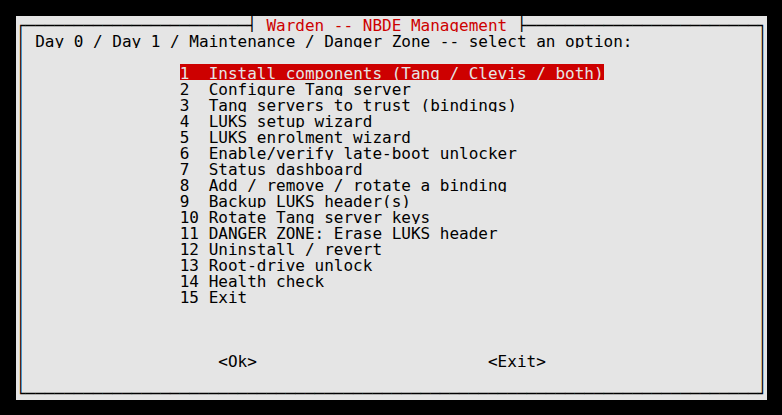
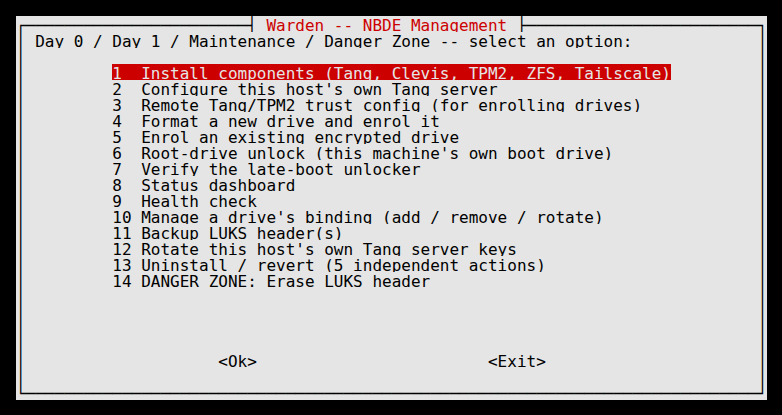
Reorganise the main menu into a more logical order; renumber everything
Reordered to read top-to-bottom the way the tool is actually used:
install, then enrol a drive (root-drive unlock included, grouped with
the other enrolment wizards instead of sitting off on its own),
verify the late-boot unlocker, then ongoing maintenance (status
dashboard and health check now adjacent, rather than 6 slots apart),
then uninstall, with the Danger Zone kept deliberately last -- the
single most irreversible action should require scrolling past
everything else, not appear in the middle of the list.

Also rephrased several labels that were ambiguous or under-specified:
- Menu 1 now names everything it actually installs (Tailscale, TPM2,
  ZFS were previously undocumented at the top level).
- Menus 4/5 now say "new drive" / "existing drive" instead of the
  near-identical "LUKS setup wizard" / "LUKS enrolment wizard".
- Menu 2 and the old menu 10 (now 12) now say "this host's own Tang
  server" to distinguish from menu 3's remote trust configuration --
  previously easy to confuse, all three just said "Tang server(s)".
- Menu 10 (was 8) now says "a drive's binding" to distinguish it from
  menu 13's (was 12) unrelated per-device revert actions.
- Menu 13 (was 12, Uninstall/revert) now hints it's 5 independent
  actions, not one monolithic operation.
- Removed the numbered Exit item entirely -- whiptail's own Cancel
  button already reads "Exit" and does the same thing, so it was a
  duplicate of an already-existing control.
[…]

Changed region(s): [[0.1228, 0.1446, 0.8593, 0.7518]]

diff --git a/docs/future-work.md b/docs/future-work.md
@@ -16,8 +16,8 @@ remains the source of the original constraints it must satisfy.
 
 **Status: complete and fully real-hardware validated, 2026-09-20.**
 All seven actions (Enable, Add, Remove, Rotate, Status, Snapshot,
-Disable) exist in `lib/features/root_unlock.sh`, menu 13 is wired into
-`bin/warden`'s main menu (Exit moved to 14), and every single one of
+Disable) exist in `lib/features/root_unlock.sh`, menu 6 is wired into
+`bin/warden`'s main menu, and every single one of
 them — not just Enable — has now been driven for real against the
 LUKS-root test VM, with real reboots proving the two riskiest claims
 (a TPM2-only bind unlocking automatically, and a Tang-only bind doing
@@ -101,25 +101,26 @@ never the kit's own necessarily-different backup content.
   Tang address resolves to any of this host's own currently-assigned
   addresses (not just literal `127.0.0.1` — a LAN IP that happens to
   be this host's own counts too), not just a fixed loopback check.
-- **New menu 13** (`Root-drive unlock`), Exit moves to 14. Kept fully
+- **A new, self-contained menu** (`Root-drive unlock`, now menu 6 after
+  the 2026-09-21 main-menu reorganisation), kept fully
   self-contained rather than folded into existing menus, matching the
   spec's requirement that this never be accidentally reachable from
   the general wizard — the same reasoning that already keeps the
-  Danger Zone (menu 11) structurally separate from Uninstall (menu 12).
+  Danger Zone (menu 14) structurally separate from Uninstall (menu 13).
 
-### Menu 13's actions: Enable, Add, Remove, Rotate, Status, Snapshot, Disable
+### Menu 6's actions: Enable, Add, Remove, Rotate, Status, Snapshot, Disable
 
 No device picker anywhere in this menu — there's only ever one root
 device, resolved fresh each time, never cached, consistent with the
 rest of the project's "never trust a stale device reference" rule.
 
-Binding management (Add/Remove/Rotate) can't just delegate to menu 8,
+Binding management (Add/Remove/Rotate) can't just delegate to menu 10,
 even though a root LUKS device is mechanically identical to any other
-once it has bindings: menu 8's device list is already built from
+once it has bindings: menu 10's device list is already built from
 `managed_luks_devices`, which excludes root via the same
-`guard_not_system_critical` check menu 5 uses. Reusing menu 8 directly
+`guard_not_system_critical` check menu 5 uses. Reusing menu 10 directly
 would reintroduce exactly the "accidentally reachable from the general
-wizard" risk the spec warns against. So menu 13 needs its own thin
+wizard" risk the spec warns against. So menu 6 needs its own thin
 add/remove/rotate, reusing the underlying `run_clevis_luks_bind` /
 `run_clevis_luks_unbind` / hard non-Clevis-slot-gate primitives
 internally, but as a structurally distinct entry point — the same
@@ -137,7 +138,7 @@ low-level primitives, shares zero code path at the menu level).
   redoing setup.
 - **Add** — bind an additional pin alongside whatever's already there
   (e.g. TPM2 now, LAN-Tang added later). Shows current bindings first,
-  same "state before action" pattern as menu 8. Since the
+  same "state before action" pattern as menu 10. Since the
   `clevis-initramfs` boot script reads bindings live off the LUKS
   header at boot time rather than baking them into the initramfs
   image, **this needs no initramfs regeneration at all** — a
@@ -149,7 +150,7 @@ low-level primitives, shares zero code path at the menu level).
   against real hardware while building Enable — corrected once the
   same constraint was recognised to apply equally to every action
   here, not just Enable.
-- **Remove** / **Rotate** — same shape as menu 8's equivalents, same
+- **Remove** / **Rotate** — same shape as menu 10's equivalents, same
   hard gate that structurally prevents ever touching a non-Clevis
   (passphrase) slot. No initramfs regeneration needed here either, for
   the same reason as Add. Rotate cannot live-verify the new binding
@@ -176,7 +177,7 @@ low-level primitives, shares zero code path at the menu level).
   same as Enable. Existing recovery kits from earlier enables are left
   alone, not auto-deleted (they're the operator's own safety net;
   destroying them as a side effect of an unrelated action would be
-  wrong, matching how menu 12 already treats everything else
+  wrong, matching how menu 13 already treats everything else
   non-destructively).
 
 ### Ordering matters: regenerate the initramfs *before* binding, not after
@@ -437,14 +438,14 @@ no mirror/raidz, no multi-device pickers). Fits into menus 4/5 as a
 filesystem-type choice alongside ext4/etc., not a separate menu.
 
 **Status: all six planned pieces are done** — menu 1 (install), menu 4
-(new device), menu 5 (enrol an existing device), menu 7 (status
-dashboard), menu 11 (Danger Zone erase completion message), and menu
-12 (uninstall "forget" action). Every piece has been validated
+(new device), menu 5 (enrol an existing device), menu 8 (status
+dashboard), menu 14 (Danger Zone erase completion message), and menu
+13 (uninstall "forget" action). Every piece has been validated
 end-to-end through the real TUI on real hardware: menu 1/4/5 with full
 reboots proving auto-unlock → auto-import → auto-mount with no manual
 intervention (menu 5's case additionally proved a pool created under
 one mapper name gets correctly re-discovered and re-enrolled under its
-own real name after being "forgotten"/moved), and menu 11/12 via real
+own real name after being "forgotten"/moved), and menu 14/13 via real
 create-then-forget-then-re-import testing. This feature is complete
 for the single-disk-pool scope decided above; multi-disk pools
 (mirror/raidz) remain a distinct, larger, not-yet-scoped feature if
@@ -578,18 +579,18 @@ mapping first, run the normal throwaway-name test-unlock, then reopen
 the real mapper and re-import the pool so the operator's session ends
 in the same state it would have without the test running at all.
 
-### Done: menus 11 and 12
+### Done: menus 14 and 13
 
-- Menu 12 (uninstall/revert)'s "forget" action now checks for an
+- Menu 13 (uninstall/revert)'s "forget" action now checks for an
   enabled `warden-zfs-import@<mapper>.service`, and if present:
   exports the zpool (only if currently imported) and disables the
   unit. Never touches the pool's data (export, not destroy) or the
   LUKS layer at all -- matches this action's existing scope exactly.
-- Menu 11 (Danger Zone erase)'s "still has a crypttab entry" boot-hang
+- Menu 14 (Danger Zone erase)'s "still has a crypttab entry" boot-hang
   warning now also checks for and mentions an enabled
   `warden-zfs-import@` unit for the erased device, pointing at the
-  same menu 12 action above. Plain text, not a function call -- menu
-  11 and menu 12 still share zero code path (verified via grep, same
+  same menu 13 action above. Plain text, not a function call -- menu
+  14 and menu 13 still share zero code path (verified via grep, same
   as before).
 
 Confirmed live on the test VM: created a real ZFS-backed device
@@ -600,7 +601,7 @@ reboot isn't the right test for this action specifically, since its
 whole purpose is to make the device stop doing anything automatic at
 boot; the create → forget → re-import cycle is the real proof.
 
-### Done: menu 7
+### Done: menu 8
 
 `render_status_report` now checks each managed device for an enabled
 `warden-zfs-import@<mapper>.service` before falling back to the usual
@@ -649,14 +650,14 @@ decided above.
 Raised 2026-09-20. **Status: done**, same day — small enough that it
 didn't warrant sitting on the backlog. Checking whether everything
 Warden has configured was actually still healthy used to mean
-visiting several menus by hand: menu 7 for binding/mount state, menu
-13's Status for root-unlock drift, with no single place re-verifying
-Tang reachability for every *configured* binding at once (menu 7 only
+visiting several menus by hand: menu 8 for binding/mount state, menu
+6's Status for root-unlock drift, with no single place re-verifying
+Tang reachability for every *configured* binding at once (menu 8 only
 ever showed reachability for servers a currently-bound device already
 referenced) or confirming a TPM2 chip was still present with the right
 packages installed.
 
-Implemented as `lib/features/health_check.sh` (menu 14, plus
+Implemented as `lib/features/health_check.sh` (menu 9, plus
 `warden check` non-interactively): walks every managed device and
 configured binding and reports PASS/FAIL/WARN for Tang reachability,
 TPM2 hardware/package presence (only checked if some binding actually
@@ -664,7 +665,7 @@ uses a tpm2 pin), ZFS import units, the late-boot unlocker path, and
 root-unlock drift (a WARN, not a FAIL — drift alone never invalidates
 a binding). One render function backs both front ends, so there's only
 one implementation to keep correct. Deliberately composition, not new
-logic — every individual check reuses a primitive menu 7 or menu 13
+logic — every individual check reuses a primitive menu 8 or menu 6
 already had and already tested. No separate quiet mode was added: the
 exit code (0 clean, 1 needs attention) is the actionable signal for a
 cron job or monitoring check; the full text is there for when you need
@@ -673,7 +674,7 @@ to see why.
 ## Off-host sync for root-unlock recovery kits
 
 Raised 2026-09-20, not yet scoped. Root-unlock's recovery kits
-(`docs/usage/13-root-unlock.md`) currently live only on the same
+(`docs/usage/06-root-unlock.md`) currently live only on the same
 machine they protect — the guide + script on `/boot`, the initramfs
 backup under `/root`. That's sufficient for the failure modes the
 design targets (a bad Clevis binding, an initramfs regeneration gone
@@ -711,3 +712,26 @@ would need its own equally-deliberate equivalent (an explicit
 config-level acknowledgement, most likely) rather than silently
 skipping that friction. Worth a proper design conversation before
 starting, not a small patch.
+
+## Test against the current latest Ubuntu LTS
+
+Raised 2026-09-21. Every real-hardware claim in this project — every
+"confirmed on real hardware" comment, every real reboot test, all of
+`docs/future-work.md` and the wiki's Lessons Learned — was validated
+against Ubuntu Server 24.04 LTS specifically, never anything newer.
+The README's prerequisites section says so explicitly rather than
+claiming untested forward-compatibility ("24.04 LTS (other versions
+not yet tested)"), on the same "check, don't assume" principle behind
+everything else in this project: package names, systemd unit specifics,
+default LUKS2/cryptsetup behaviour, and netplan/systemd-networkd
+defaults have all had at least one real surprise already during this
+project's own development, and a newer LTS is exactly the kind of
+thing likely to have its own.
+
+Not yet started. Whenever picked up: build a disposable test VM on the
+current latest Ubuntu LTS release, and re-run at least the highest-risk
+real-hardware validations already done against 24.04 — a full install
+→ enrol → reboot cycle for a secondary drive, and root-drive unlock's
+Enable with a real reboot (the single riskiest claim in the whole
+project, per its own design doc). If it passes, widen the README's
+prerequisites line with real evidence behind it, not just optimism.

diff --git a/docs/usage/13-uninstall.md b/docs/usage/13-uninstall.md
@@ -1,9 +1,9 @@
-# Menu 12 — Uninstall / revert
+# Menu 13 — Uninstall / revert (5 independent actions)
 
 Granular, not all-or-nothing — each action below is independent and
 picking one doesn't touch the others. **Never** touches actual
 LUKS-encrypted data; that's exclusively the Danger Zone's job (menu
-11), and the two menus share no code path at all — see the comment at
+14), and the two menus share no code path at all — see the comment at
 the top of `lib/features/uninstall.sh`.
 
 - **Disable the late-boot unlocker only** — shows current status,
@@ -14,14 +14,14 @@ the top of `lib/features/uninstall.sh`.
   requires confirming you have that device's recovery passphrase in
   hand before removing every Clevis binding on it (this is the point
   of no return for automatic unlocking on that specific device). Uses
-  the same hard non-Clevis-slot gate as menu 8, so it's just as
+  the same hard non-Clevis-slot gate as menu 10, so it's just as
   incapable of touching a bare passphrase or keyfile slot.
 - **Remove crypttab/fstab entries for a device** — shows the device's
   mapper, UUID, and current Clevis bindings, then removes its
   `/etc/crypttab` (and `/etc/fstab`, if present) entries only. Doesn't
   touch the LUKS header, keyslots, or any Clevis binding. This is the
   action to use once a device is done being managed by Warden — most
-  importantly right after a Danger Zone erase (menu 11): with every
+  importantly right after a Danger Zone erase (menu 14): with every
   keyslot destroyed, that device can never unlock again, and its
   crypttab entry has no `nofail` option, so leaving it in place risks
   hanging the next boot waiting on it. "Unbind Clevis from a device"

diff --git a/docs/usage/06-root-unlock.md b/docs/usage/06-root-unlock.md
@@ -1,9 +1,9 @@
-# Menu 13 — Root-drive unlock (`clevis-initramfs`)
+# Menu 6 — Root-drive unlock (`clevis-initramfs`)
 
 Automatic unlock of the machine's *own* root filesystem at boot — TPM2
 and/or a LAN-only Tang server — instead of only ever prompting for a
-passphrase interactively. Structurally separate from menu 8, even
-though the underlying primitives are shared: menu 8's device list
+passphrase interactively. Structurally separate from menu 10, even
+though the underlying primitives are shared: menu 10's device list
 (`managed_luks_devices`) deliberately excludes root, so root can never
 be reached from the general enrolment/binding menus by accident. There
 is no device picker here — there's only ever one root device, resolved
@@ -52,7 +52,7 @@ need one.
   bindings live off the LUKS header at boot time, not from a baked-in
   image.
 - **Remove** — pick a bound slot from the displayed list and unbind
-  it. Same hard non-Clevis-slot gate as menu 8: a slot without a
+  it. Same hard non-Clevis-slot gate as menu 10: a slot without a
   Clevis token attached (i.e. the passphrase slot) can never be
   touched through this path. Warns explicitly if it's the only
   remaining Clevis binding.
@@ -84,7 +84,7 @@ need one.
 
 ## Unlike every other binding path in Warden: no live test-unlock
 
-Every other enrolment wizard in Warden (menus 4/5/8) proves a new
+Every other enrolment wizard in Warden (menus 4/5/10) proves a new
 binding works by actually test-unlocking it before declaring success.
 Root's own device can never do this: whenever Warden is running, it is
 running *from* the very filesystem it would need to test-unlock, so

diff --git a/README.md b/README.md
@@ -78,7 +78,13 @@ page for what that testing actually found and fixed along the way.
   <img src="docs/images/main-menu.png" alt="Warden's main menu" width="640">
 </p>
 <p align="center">
+  <img src="docs/images/install-menu.png" alt="Warden's install-components picker" width="640">
+</p>
+<p align="center">
   <img src="docs/images/root-unlock-menu.png" alt="Warden's root-drive unlock menu" width="640">
+</p>
+<p align="center">
+  <img src="docs/images/health-check.png" alt="Warden's health check report, showing a mix of PASS and WARN results" width="640">
 </p>
 <!-- markdownlint-enable MD033 -->
 
@@ -91,7 +97,7 @@ itself as a native systemd service, that *is* in scope.
 
 ## Prerequisites
 
-- Ubuntu Server 24.04 LTS
+- Ubuntu Server 24.04 LTS (other versions not yet tested)
 - `whiptail` (present by default on Ubuntu Server)
 - Root privileges to run `bin/warden` (see Safety model)
 
@@ -163,7 +169,7 @@ because of real incidents, not hypothetical caution:
   missed on install, silently breaking late-boot unlock — every
   required package is checked explicitly and individually, never
   assumed to ride in with a related one.
-- **Root-drive unlock can never be reached by accident.** Menu 13 is
+- **Root-drive unlock can never be reached by accident.** Menu 6 is
   structurally separate from the general enrolment/binding menus —
   the same isolation the Danger Zone already has from Uninstall — and
   always keeps the original LUKS passphrase working, with a

diff --git a/docs/usage/README.md b/docs/usage/README.md
@@ -8,12 +8,12 @@ top-level README for the current phase status.
 - [03-tang-bindings.md](03-tang-bindings.md) — menu 3
 - [04-luks-setup.md](04-luks-setup.md) — menu 4
 - [05-luks-enrolment.md](05-luks-enrolment.md) — menu 5
-- [06-late-boot-unlocker.md](06-late-boot-unlocker.md) — menu 6
-- [07-status-dashboard.md](07-status-dashboard.md) — menu 7
-- [08-binding-rotate.md](08-binding-rotate.md) — menu 8
-- [09-header-backup.md](09-header-backup.md) — menu 9
-- [10-tang-key-rotation.md](10-tang-key-rotation.md) — menu 10
-- [11-danger-zone-erase.md](11-danger-zone-erase.md) — menu 11
-- [12-uninstall.md](12-uninstall.md) — menu 12
-- [13-root-unlock.md](13-root-unlock.md) — menu 13
-- [14-health-check.md](14-health-check.md) — menu 14
+- [06-root-unlock.md](06-root-unlock.md) — menu 6
+- [07-late-boot-unlocker.md](07-late-boot-unlocker.md) — menu 7
+- [08-status-dashboard.md](08-status-dashboard.md) — menu 8
+- [09-health-check.md](09-health-check.md) — menu 9
+- [10-binding-rotate.md](10-binding-rotate.md) — menu 10
+- [11-header-backup.md](11-header-backup.md) — menu 11
+- [12-tang-key-rotation.md](12-tang-key-rotation.md) — menu 12
+- [13-uninstall.md](13-uninstall.md) — menu 13
+- [14-danger-zone-erase.md](14-danger-zone-erase.md) — menu 14

diff --git a/docs/usage/09-health-check.md b/docs/usage/09-health-check.md
@@ -1,9 +1,9 @@
-# Menu 14 — Health check
+# Menu 9 — Health check
 
 A single pass/fail pass across everything else in this tool already
 configured, so checking whether it's all still healthy doesn't mean
 visiting several other menus by hand. Read-only, like the status
-dashboard (menu 7) — this never changes anything.
+dashboard (menu 8) — this never changes anything.
 
 Checks, each shown as `PASS`/`FAIL`/`WARN` (or a plain note when
 there's nothing of that kind configured to check):
@@ -22,11 +22,11 @@ there's nothing of that kind configured to check):
   installed. Confirms `clevis-luks-askpass.path` is active.
 - **Root-drive unlock drift** — only checked if root-drive unlock is
   enabled. A `WARN`, not a `FAIL`: drift means the recovery kit is
-  stale, not that any binding is at risk (see menu 13's Status for
+  stale, not that any binding is at risk (see menu 6's Status for
   why) — still surfaced here since it needs attention (run Snapshot),
   just phrased as a warning rather than an error.
 
-Every individual check reuses a function menu 7 or menu 13 already has
+Every individual check reuses a function menu 8 or menu 6 already has
 and already tests — this menu is composition, not new logic.
 
 ## Non-interactive use: `warden check`

diff --git a/docs/usage/14-danger-zone-erase.md b/docs/usage/14-danger-zone-erase.md
@@ -1,4 +1,4 @@
-# Menu 11 — DANGER ZONE: Erase LUKS header
+# Menu 14 — DANGER ZONE: Erase LUKS header
 
 For secure disposal of a drive (e.g. one that can't reliably be wiped
 the normal way). **Not** a routine maintenance action — this is the
@@ -33,11 +33,11 @@ banner so it never looks like a routine screen.
    now permanently unrecoverable, even though the bulk data area
    itself was never touched. If the erased device still has a
    `/etc/crypttab` entry, the completion message says so explicitly
-   and points to menu 12's "remove crypttab/fstab entries" action —
+   and points to menu 13's "remove crypttab/fstab entries" action —
    with no key slot left, the device can never unlock again, and its
    crypttab entry has no `nofail` option, so leaving it in place risks
    hanging the next boot. If it also has a `warden-zfs-import@`
-   unit enabled, that's mentioned too, since the same menu 12 action
+   unit enabled, that's mentioned too, since the same menu 13 action
    disables it as well.
 
 See the wiki's confirmation-phrase design notes for why `ERASE

diff --git a/docs/usage/12-tang-key-rotation.md b/docs/usage/12-tang-key-rotation.md
@@ -1,6 +1,6 @@
-# Menu 10 — Rotate Tang server keys
+# Menu 12 — Rotate this host's own Tang server keys
 
-Only meaningful on a host that runs Tang itself — distinct from menu 8,
+Only meaningful on a host that runs Tang itself — distinct from menu 10,
 which rotates a *client's* binding. If Tang isn't installed here, this
 menu says so and stops.
 

diff --git a/docs/usage/03-tang-bindings.md b/docs/usage/03-tang-bindings.md
@@ -1,4 +1,4 @@
-# Menu 3 — Tang servers to trust (bindings)
+# Menu 3 — Remote Tang/TPM2 trust config (for enrolling drives)
 
 Builds and saves the pin configuration that the LUKS enrolment wizard
 (menu 5) binds devices against. This is a Day-0 "what do we trust and

diff --git a/docs/usage/10-binding-rotate.md b/docs/usage/10-binding-rotate.md
@@ -1,4 +1,4 @@
-# Menu 8 — Add / remove / rotate a binding
+# Menu 10 — Manage a drive's binding (add / remove / rotate)
 
 For a device that's already enrolled. Shows current bindings before
 offering any action — you never have to remember or type a slot number

diff --git a/docs/usage/01-install.md b/docs/usage/01-install.md
@@ -1,4 +1,4 @@
-# Menu 1 — Install components
+# Menu 1 — Install components (Tang, Clevis, TPM2, ZFS, Tailscale)
 
 Installs Tang, Clevis, or both. Shows current install status for every
 package this menu manages first, then a plain-language reminder of

diff --git a/docs/usage/07-late-boot-unlocker.md b/docs/usage/07-late-boot-unlocker.md
@@ -1,4 +1,4 @@
-# Menu 6 — Enable/verify late-boot unlocker
+# Menu 7 — Verify the late-boot unlocker
 
 Verifies `clevis-systemd` is actually installed before doing anything
 else — this exact gap (installed `clevis`/`clevis-luks` but not
